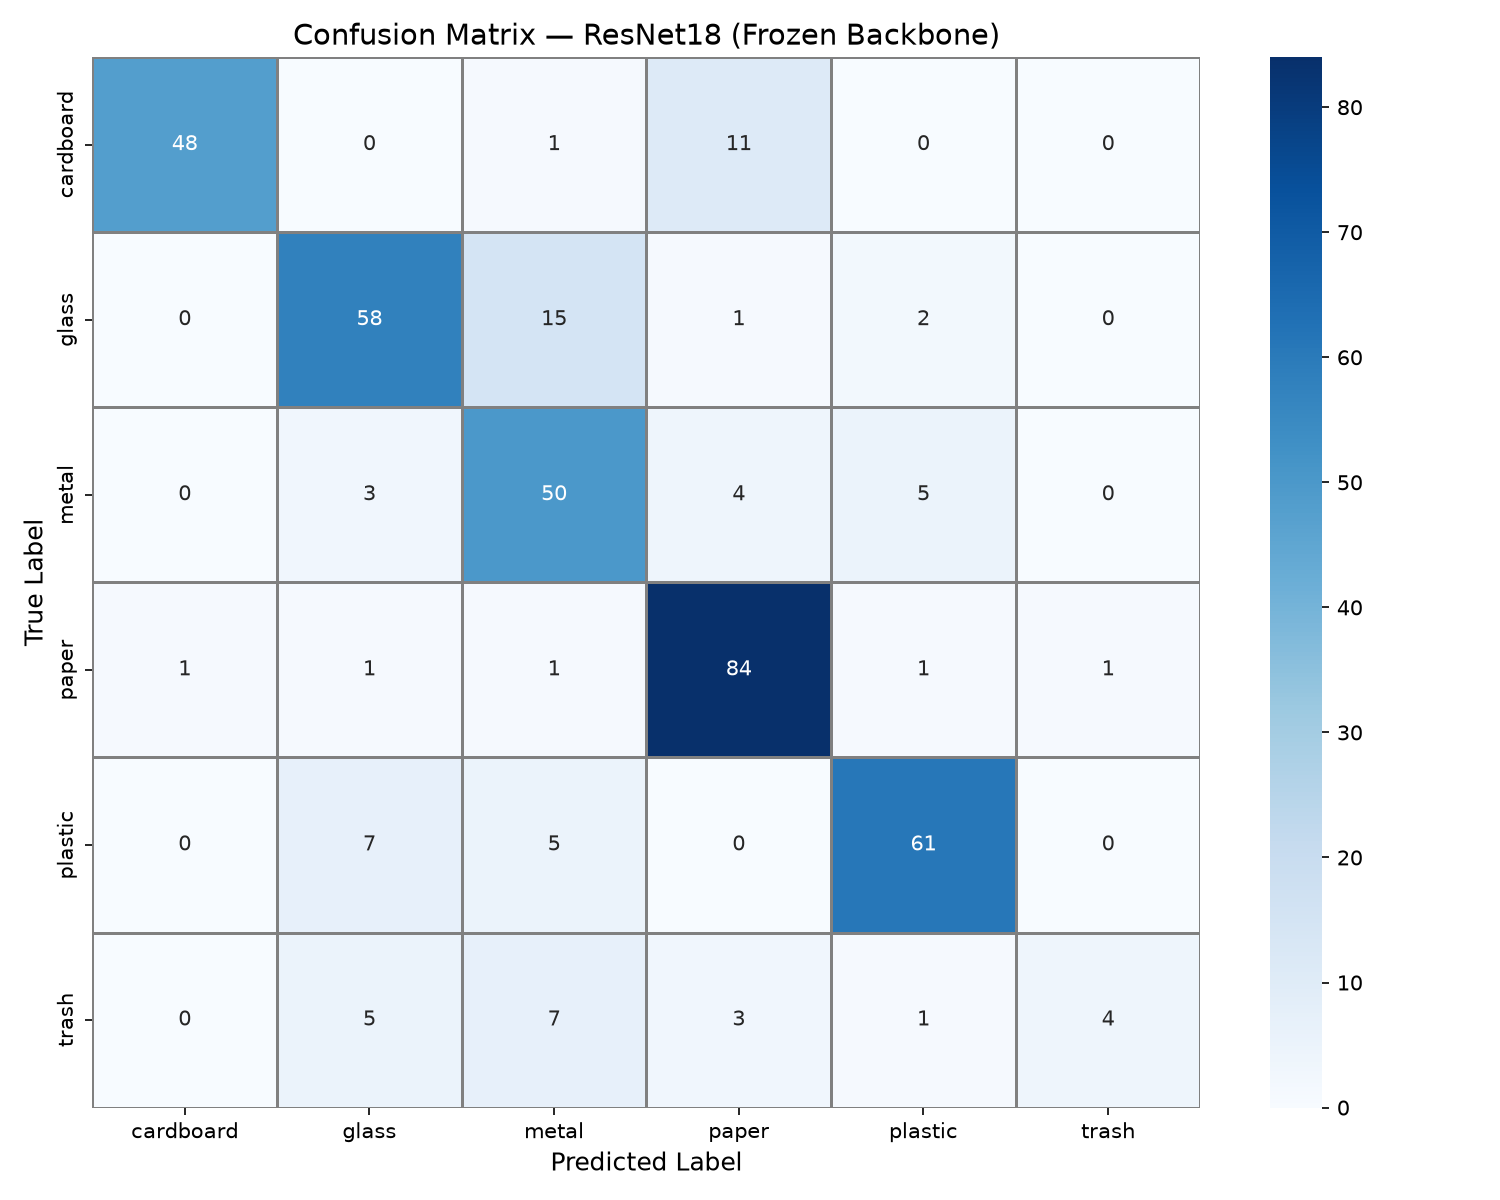
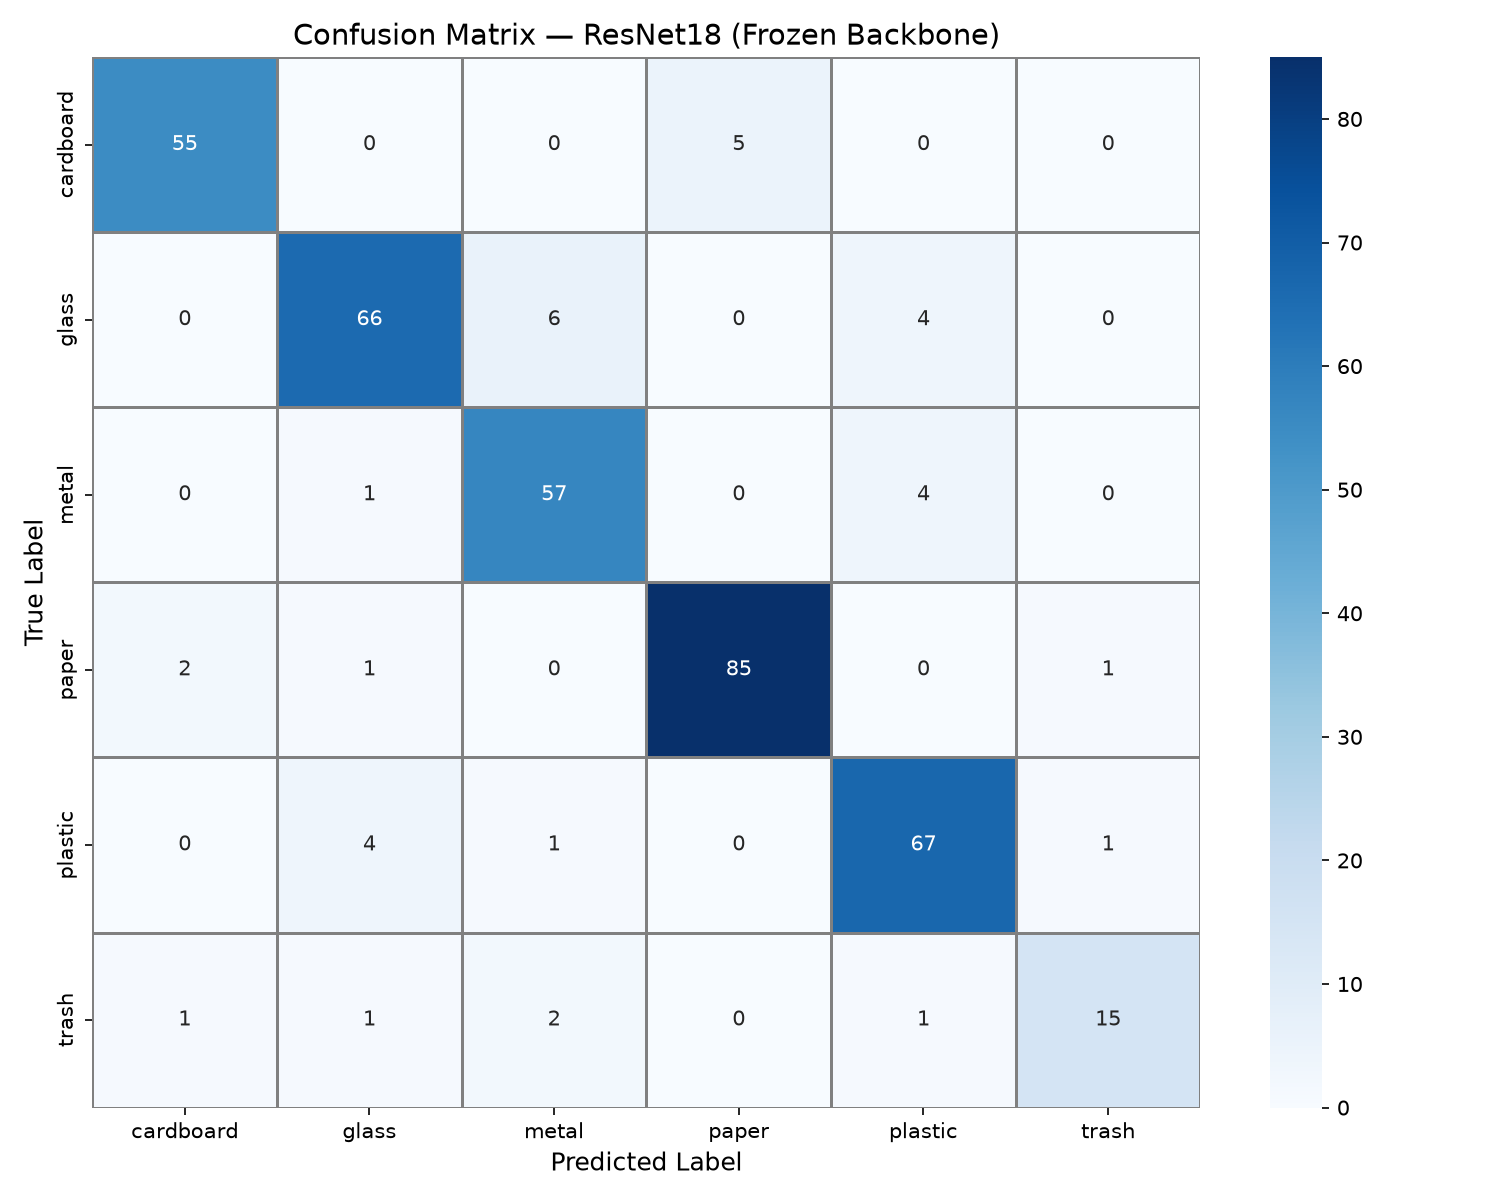
feat: evaluate and fine fine-tuning model

diff --git a/src/train_finetune.py b/src/train_finetune.py
@@ -1,0 +1,201 @@
+import os
+import sys
+import copy
+import time
+import torch
+import torch.nn as nn
+import torch.optim as optim
+from torch.utils.data import DataLoader
+from collections import Counter
+import numpy as np
+
+sys.path.insert(0, os.path.dirname(os.path.abspath(__file__)))
+
+from dataset import WasteDataset
+from model_finetune import create_resnet18_finetune
+from transforms import train_transform_v2, val_test_transform
+
+
+def compute_class_weights(dataset):
+    """
+    Hitung class weights berbasis inverse frequency.
+    Kelas minoritas (misal trash) mendapat weight lebih tinggi agar
+    loss function memberi penalti lebih besar saat kelas tersebut salah.
+    """
+    label_counts = Counter()
+    for _, label in dataset.samples:
+        label_counts[label] += 1
+
+    total = sum(label_counts.values())
+    num_classes = len(label_counts)
+
+    # Inverse frequency: weight_i = total / (num_classes * count_i)
+    weights = torch.zeros(num_classes)
+    for cls_idx in range(num_classes):
+        weights[cls_idx] = total / (num_classes * label_counts[cls_idx])
+
+    print("Class weights (inverse frequency):")
+    for cls_name, cls_idx in sorted(dataset.class_to_idx.items(), key=lambda x: x[1]):
+        print(f"  {cls_name}: {weights[cls_idx]:.4f} (n={label_counts[cls_idx]})")
+
+    return weights
+
+
+def train_one_epoch(model, dataloader, criterion, optimizer, device):
+    """Jalankan satu epoch training."""
+    model.train()
+    running_loss = 0.0
+    correct = 0
+    total = 0
+
+    for images, labels in dataloader:
+        images, labels = images.to(device), labels.to(device)
+
+        optimizer.zero_grad()
+        outputs = model(images)
+        loss = criterion(outputs, labels)
+        loss.backward()
+        optimizer.step()
+
+        running_loss += loss.item() * images.size(0)
+        _, predicted = torch.max(outputs, 1)
+        total += labels.size(0)
+        correct += (predicted == labels).sum().item()
+
+    return running_loss / total, correct / total
+
+
+def validate(model, dataloader, criterion, device):
+    """Evaluasi pada validation set."""
+    model.eval()
+    running_loss = 0.0
+    correct = 0
+    total = 0
+
+    with torch.no_grad():
+        for images, labels in dataloader:
+            images, labels = images.to(device), labels.to(device)
+            outputs = model(images)
+            loss = criterion(outputs, labels)
+
+            running_loss += loss.item() * images.size(0)
+            _, predicted = torch.max(outputs, 1)
+            total += labels.size(0)
+            correct += (predicted == labels).sum().item()
+
+    return running_loss / total, correct / total
+
+
+def main():
+    # === Hyperparameter ===
+    BATCH_SIZE = 32
+    NUM_EPOCHS = 20
+    CHECKPOINT_PATH = "models/resnet18_finetuned.pth"
+
+    # Discriminative learning rates
+    LR_BACKBONE = 1e-4   # layer3 & layer4 — belajar lebih pelan
+    LR_HEAD = 1e-3        # fc layer — belajar lebih cepat
+
+    # === Auto-detect device ===
+    if torch.cuda.is_available():
+        device = torch.device("cuda")
+    elif hasattr(torch.backends, "mps") and torch.backends.mps.is_available():
+        device = torch.device("mps")
+    else:
+        device = torch.device("cpu")
+    print(f"Menggunakan device: {device}")
+
+    # === Load Dataset ===
+    train_dataset = WasteDataset("data/train", transform=train_transform_v2)
+    val_dataset = WasteDataset("data/val", transform=val_test_transform)
+
+    print(f"Jumlah kelas: {len(train_dataset.classes)} -> {train_dataset.classes}")
+    print(f"Train set: {len(train_dataset)} gambar")
+    print(f"Val set:   {len(val_dataset)} gambar\n")
+
+    train_loader = DataLoader(train_dataset, batch_size=BATCH_SIZE, shuffle=True, num_workers=0)
+    val_loader = DataLoader(val_dataset, batch_size=BATCH_SIZE, shuffle=False, num_workers=0)
+
+    # === Model ===
+    num_classes = len(train_dataset.classes)
+    model = create_resnet18_finetune(num_classes=num_classes).to(device)
+
+    # Hitung parameter
+    total_params = sum(p.numel() for p in model.parameters())
+    trainable = sum(p.numel() for p in model.parameters() if p.requires_grad)
+    print(f"\nTotal parameter: {total_params:,} | Trainable: {trainable:,} | Frozen: {total_params - trainable:,}")
+
+    # === Class weights untuk mengatasi imbalance (terutama kelas trash) ===
+    class_weights = compute_class_weights(train_dataset).to(device)
+    criterion = nn.CrossEntropyLoss(weight=class_weights)
+
+    # === Discriminative Learning Rates ===
+    # Pisahkan parameter ke 2 grup: backbone (layer3+4) dan head (fc)
+    backbone_params = []
+    head_params = []
+    for name, param in model.named_parameters():
+        if param.requires_grad:
+            if name.startswith('layer3') or name.startswith('layer4'):
+                backbone_params.append(param)
+            else:
+                head_params.append(param)
+
+    optimizer = optim.Adam([
+        {'params': backbone_params, 'lr': LR_BACKBONE},  # Backbone: lr kecil
+        {'params': head_params, 'lr': LR_HEAD}            # Head: lr besar
+    ])
+
+    # === LR Scheduler: kurangi lr jika val_loss stagnan ===
+    scheduler = optim.lr_scheduler.ReduceLROnPlateau(
+        optimizer, mode='min', factor=0.5, patience=3
+    )
+
+    # === Training Loop ===
+    best_val_acc = 0.0
+    best_model_state = None
+
+    print(f"\n{'='*85}")
+    print(f"{'Epoch':>5} | {'Train Loss':>10} | {'Train Acc':>9} | {'Val Loss':>10} | {'Val Acc':>9} | {'LR(bb)':>9} | {'LR(fc)':>9} | {'Best':>4}")
+    print(f"{'='*85}")
+
+    for epoch in range(1, NUM_EPOCHS + 1):
+        start_time = time.time()
+
+        train_loss, train_acc = train_one_epoch(model, train_loader, criterion, optimizer, device)
+        val_loss, val_acc = validate(model, val_loader, criterion, device)
+
+        # Step scheduler berdasarkan val_loss
+        scheduler.step(val_loss)
+
+        # Ambil current learning rate dari tiap parameter group
+        lr_bb = optimizer.param_groups[0]['lr']
+        lr_fc = optimizer.param_groups[1]['lr']
+
+        elapsed = time.time() - start_time
+
+        is_best = val_acc > best_val_acc
+        if is_best:
+            best_val_acc = val_acc
+            best_model_state = copy.deepcopy(model.state_dict())
+
+        marker = " *" if is_best else ""
+        print(f"{epoch:>5} | {train_loss:>10.4f} | {train_acc:>8.2%} | {val_loss:>10.4f} | {val_acc:>8.2%} | {lr_bb:>9.6f} | {lr_fc:>9.6f} |{marker}")
+
+    print(f"{'='*85}")
+    print(f"\nBest Val Accuracy: {best_val_acc:.2%}")
+
+    # === Simpan best model ===
+    os.makedirs(os.path.dirname(CHECKPOINT_PATH), exist_ok=True)
+    torch.save({
+        'model_state_dict': best_model_state,
+        'classes': train_dataset.classes,
+        'class_to_idx': train_dataset.class_to_idx,
+        'num_classes': num_classes,
+        'best_val_acc': best_val_acc,
+        'model_type': 'resnet18_finetuned',
+    }, CHECKPOINT_PATH)
+    print(f"Best model checkpoint disimpan ke: {CHECKPOINT_PATH}")
+
+
+if __name__ == "__main__":
+    main()

diff --git a/src/evaluate.py b/src/evaluate.py
@@ -21,16 +21,24 @@ from transforms import val_test_transform, IMAGENET_MEAN, IMAGENET_STD
 
 
 def load_model(checkpoint_path, device):
-    """Load model terbaik dari checkpoint."""
+    """Load model terbaik dari checkpoint. Mendukung frozen dan finetuned model."""
     checkpoint = torch.load(checkpoint_path, map_location=device, weights_only=False)
     num_classes = checkpoint['num_classes']
     classes = checkpoint['classes']
 
-    model = create_resnet18_model(num_classes=num_classes, freeze_backbone=True)
+    # Deteksi tipe model dari checkpoint
+    model_type = checkpoint.get('model_type', 'resnet18_frozen')
+    if model_type == 'resnet18_finetuned':
+        from model_finetune import create_resnet18_finetune
+        model = create_resnet18_finetune(num_classes=num_classes)
+    else:
+        model = create_resnet18_model(num_classes=num_classes, freeze_backbone=True)
+
     model.load_state_dict(checkpoint['model_state_dict'])
     model = model.to(device)
     model.eval()
 
+    print(f"Loaded model: {model_type}")
     return model, classes, checkpoint['class_to_idx']
 
 
@@ -174,7 +182,8 @@ def plot_misclassified(dataset, y_true, y_pred, y_probs, classes, output_path, n
 
 
 def main():
-    CHECKPOINT_PATH = "models/resnet18_frozen.pth"
+    # Terima checkpoint path dari CLI, atau default ke resnet18_frozen.pth
+    CHECKPOINT_PATH = sys.argv[1] if len(sys.argv) > 1 else "models/resnet18_frozen.pth"
     TEST_DIR = "data/test"
     OUTPUT_DIR = "notebooks"
 

diff --git a/src/model_finetune.py b/src/model_finetune.py
@@ -1,0 +1,33 @@
+import torch.nn as nn
+from torchvision import models
+
+
+def create_resnet18_finetune(num_classes):
+    """
+    Load ResNet18 pre-trained dan unfreeze layer3, layer4, dan fc untuk fine-tuning.
+    
+    Strategi: Hanya 2 block terakhir backbone yang di-finetune, sehingga
+    fitur low-level (edges, textures) dari layer1-2 tetap frozen,
+    sementara fitur high-level bisa diadaptasi ke domain waste images.
+    """
+    model = models.resnet18(weights=models.ResNet18_Weights.IMAGENET1K_V1)
+
+    # Freeze semua parameter terlebih dahulu
+    for param in model.parameters():
+        param.requires_grad = False
+
+    # Unfreeze layer3 dan layer4 (2 block terakhir backbone)
+    for name, param in model.named_parameters():
+        if name.startswith('layer3') or name.startswith('layer4'):
+            param.requires_grad = True
+
+    # Ganti fc layer dengan custom classifier (otomatis requires_grad=True)
+    num_features = model.fc.in_features  # 512
+    model.fc = nn.Sequential(
+        nn.Linear(num_features, 256),
+        nn.ReLU(inplace=True),
+        nn.Dropout(0.4),
+        nn.Linear(256, num_classes)
+    )
+
+    return model

diff --git a/src/transforms.py b/src/transforms.py
@@ -24,3 +24,17 @@ val_test_transform = transforms.Compose([
     transforms.ToTensor(),
     transforms.Normalize(mean=IMAGENET_MEAN, std=IMAGENET_STD)
 ])
+
+# Transformasi Train V2 — augmentasi lebih agresif untuk fine-tuning
+# Dirancang untuk membantu model membedakan material reflektif (glass vs metal)
+# dan material transparan (plastic vs glass) dengan variasi warna/kontras lebih tinggi
+train_transform_v2 = transforms.Compose([
+    transforms.Resize((224, 224)),
+    transforms.RandomHorizontalFlip(p=0.5),
+    transforms.RandomRotation(degrees=20),                     # Rotasi lebih besar
+    transforms.ColorJitter(brightness=0.4, contrast=0.4,       # Variasi warna lebih tinggi
+                           saturation=0.4, hue=0.15),
+    transforms.RandomAutocontrast(p=0.3),                      # Bantu bedakan refleksi vs matte
+    transforms.ToTensor(),
+    transforms.Normalize(mean=IMAGENET_MEAN, std=IMAGENET_STD)
+])
